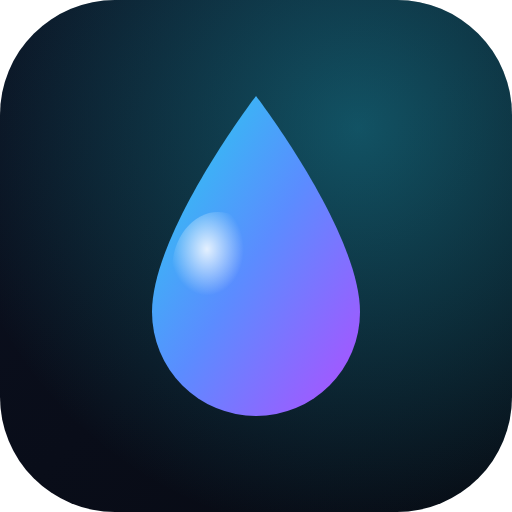
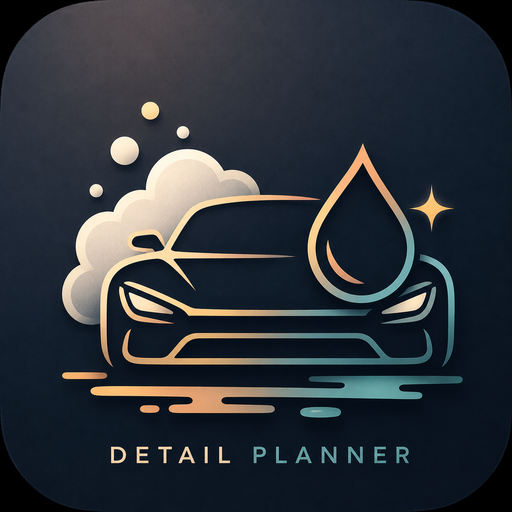
Add files via upload

diff --git a/sw.js b/sw.js
@@ -1,6 +1,6 @@
 // 세차 플래너 — Service Worker
 // 앱 셸을 캐시해 오프라인에서도 구동. 데이터는 IndexedDB(SW 무관).
-var CACHE = 'detaillog-v1';
+var CACHE = 'detaillog-v2';
 var SHELL = [
   '/',
   '/index.html',